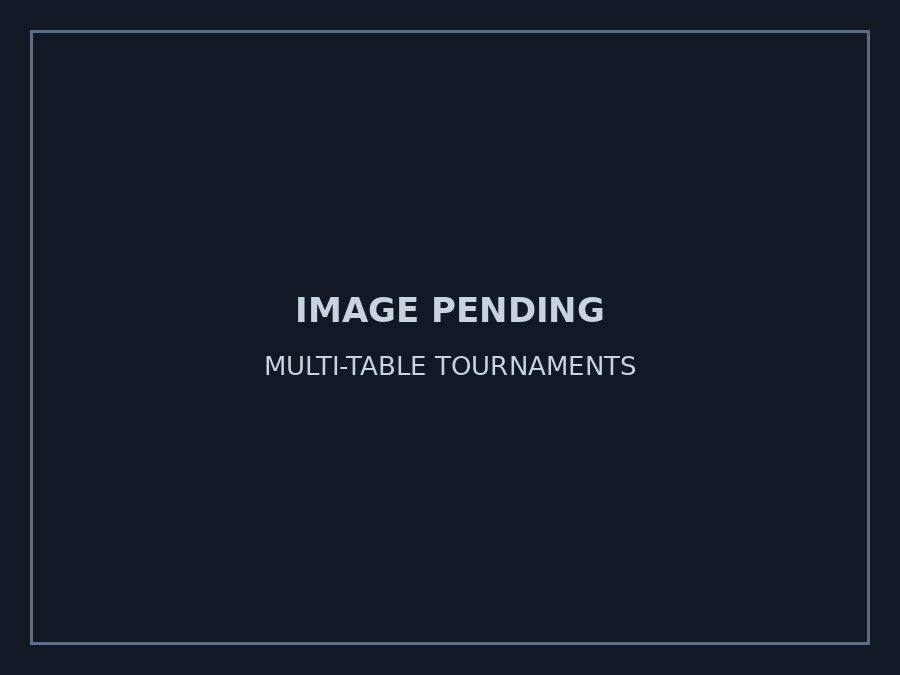
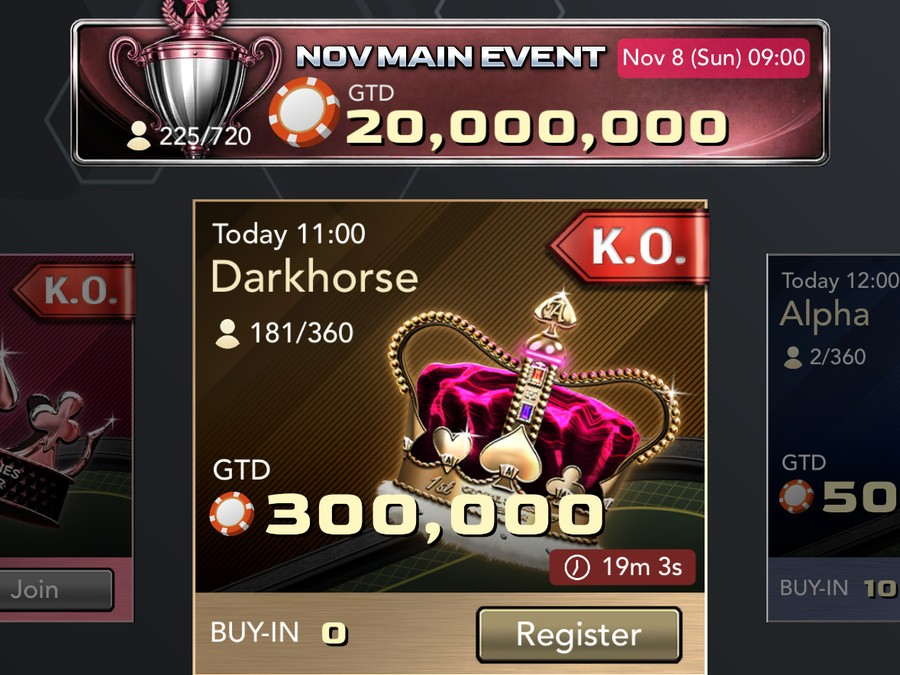
Home features: MTT and Friends card images
Claude-Session: https://claude.ai/code/session_0142zWWwptyNoYjdKVkt2bh6

diff --git a/public/js/i18n.js b/public/js/i18n.js
@@ -111,10 +111,10 @@ const I18N = {
     'index.features.title': '多重戰線，全面部署',
     'index.features.mtt.title': '多桌錦標賽',
     'index.features.mtt.desc': '加入大型錦標賽，在多張牌桌間層層淘汰對手，一路殺進決賽桌。盲注持續升高、獎池不斷擴大，最後只有一位特務能拿下全部。',
-    'index.features.mtt.imgAlt': '多桌錦標賽大廳畫面（圖片待補）',
+    'index.features.mtt.imgAlt': 'MTT 大廳畫面：保證獎池 20,000,000 的 11 月主賽事與 Darkhorse 淘汰賽',
     'index.features.friends.title': '與好友同桌',
     'index.features.friends.desc': '開設私人牌桌或俱樂部，用代碼邀請好友加入，自訂玩法規則與盲注。你的小隊，你的牌桌。',
-    'index.features.friends.imgAlt': '與好友同桌的私人牌桌畫面（圖片待補）',
+    'index.features.friends.imgAlt': '好友牌局畫面：四位好友圍坐私人牌桌打牌',
     'index.features.card3.title': '每日任務與排行榜',
     'index.features.card3.desc': '每日、每週任務與競賽活動持續開放，完成挑戰、累積積分，登上排行榜，爭取限定獎勵。',
     'index.features.card3.imgAlt': '排行榜畫面：前三名玩家的頭像卡與累積積分',
@@ -429,10 +429,10 @@ const I18N = {
     'index.features.title': 'Multiple Fronts. Full Deployment.',
     'index.features.mtt.title': 'Multi-table Tournaments',
     'index.features.mtt.desc': 'Enter large-field tournaments, outlast opponents across multiple tables, and fight your way to the final table. Blinds keep rising and the prize pool keeps growing — only one agent takes it all.',
-    'index.features.mtt.imgAlt': 'Multi-table tournament lobby (image pending)',
+    'index.features.mtt.imgAlt': 'MTT lobby showing the November Main Event with a 20,000,000 guarantee and the Darkhorse knockout tournament',
     'index.features.friends.title': 'Poker with your Friends',
     'index.features.friends.desc': 'Open a private table or club, invite your friends with a code, and set your own rules and blinds. Your crew, your table.',
-    'index.features.friends.imgAlt': 'Private table with friends (image pending)',
+    'index.features.friends.imgAlt': 'Friendly Game screen showing four friends playing poker around a private table',
     'index.features.card3.title': 'Daily Missions & Leaderboards',
     'index.features.card3.desc': 'Take on daily and weekly missions, join competitive events, earn points, climb the leaderboards, and compete for exclusive rewards.',
     'index.features.card3.imgAlt': 'Leaderboard screen showing the top three players\' rank cards and chip totals',
@@ -745,10 +745,10 @@ const I18N = {
     'index.features.title': '複数戦線、フル展開',
     'index.features.mtt.title': 'マルチテーブルトーナメント',
     'index.features.mtt.desc': '大規模トーナメントに参加し、複数のテーブルを勝ち抜いてファイナルテーブルを目指そう。上がり続けるブラインド、膨らむ賞金プール――すべてを手にするのはただ一人のエージェントだけ。',
-    'index.features.mtt.imgAlt': 'マルチテーブルトーナメントのロビー画面（画像準備中）',
+    'index.features.mtt.imgAlt': '保証賞金 20,000,000 の11月メインイベントと Darkhorse ノックアウト戦が並ぶ MTT ロビー画面',
     'index.features.friends.title': 'フレンドとポーカー',
     'index.features.friends.desc': 'プライベートテーブルやクラブを作成し、コードでフレンドを招待。ルールやブラインドも自由に設定できる。君のチーム、君のテーブル。',
-    'index.features.friends.imgAlt': 'フレンドと遊ぶプライベートテーブル画面（画像準備中）',
+    'index.features.friends.imgAlt': '4人のフレンドがプライベートテーブルでポーカーを楽しむフレンドリーゲーム画面',
     'index.features.card3.title': 'デイリーミッション＆ランキング',
     'index.features.card3.desc': 'デイリー・ウィークリーミッションや大会イベントを常時開催。チャレンジをクリアしてポイントを貯め、ランキングを駆け上がって限定報酬を獲得しよう。',
     'index.features.card3.imgAlt': '上位3名のランクカードと獲得チップ数を表示するランキング画面',

diff --git a/public/ja/index.html b/public/ja/index.html
@@ -120,14 +120,14 @@
       <div class="carousel-viewport">
         <div class="carousel-track">
           <div class="feature-card">
-            <img class="feature-card-img" src="../assets/images/features/card-mtt.jpg" alt="マルチテーブルトーナメントのロビー画面（画像準備中）" data-i18n-alt="index.features.mtt.imgAlt">
+            <img class="feature-card-img" src="../assets/images/features/card-mtt.jpg" alt="保証賞金 20,000,000 の11月メインイベントと Darkhorse ノックアウト戦が並ぶ MTT ロビー画面" data-i18n-alt="index.features.mtt.imgAlt">
             <div class="feature-card-body">
               <h3 data-i18n="index.features.mtt.title">マルチテーブルトーナメント</h3>
               <p data-i18n="index.features.mtt.desc">大規模トーナメントに参加し、複数のテーブルを勝ち抜いてファイナルテーブルを目指そう。上がり続けるブラインド、膨らむ賞金プール――すべてを手にするのはただ一人のエージェントだけ。</p>
             </div>
           </div>
           <div class="feature-card">
-            <img class="feature-card-img" src="../assets/images/features/card-friends.jpg" alt="フレンドと遊ぶプライベートテーブル画面（画像準備中）" data-i18n-alt="index.features.friends.imgAlt">
+            <img class="feature-card-img" src="../assets/images/features/card-friends.jpg" alt="4人のフレンドがプライベートテーブルでポーカーを楽しむフレンドリーゲーム画面" data-i18n-alt="index.features.friends.imgAlt">
             <div class="feature-card-body">
               <h3 data-i18n="index.features.friends.title">フレンドとポーカー</h3>
               <p data-i18n="index.features.friends.desc">プライベートテーブルやクラブを作成し、コードでフレンドを招待。ルールやブラインドも自由に設定できる。君のチーム、君のテーブル。</p>

diff --git a/public/index.html b/public/index.html
@@ -119,14 +119,14 @@
       <div class="carousel-viewport">
         <div class="carousel-track">
           <div class="feature-card">
-            <img class="feature-card-img" src="assets/images/features/card-mtt.jpg" alt="Multi-table tournament lobby (image pending)" data-i18n-alt="index.features.mtt.imgAlt">
+            <img class="feature-card-img" src="assets/images/features/card-mtt.jpg" alt="MTT lobby showing the November Main Event with a 20,000,000 guarantee and the Darkhorse knockout tournament" data-i18n-alt="index.features.mtt.imgAlt">
             <div class="feature-card-body">
               <h3 data-i18n="index.features.mtt.title">Multi-table Tournaments</h3>
               <p data-i18n="index.features.mtt.desc">Enter large-field tournaments, outlast opponents across multiple tables, and fight your way to the final table. Blinds keep rising and the prize pool keeps growing — only one agent takes it all.</p>
             </div>
           </div>
           <div class="feature-card">
-            <img class="feature-card-img" src="assets/images/features/card-friends.jpg" alt="Private table with friends (image pending)" data-i18n-alt="index.features.friends.imgAlt">
+            <img class="feature-card-img" src="assets/images/features/card-friends.jpg" alt="Friendly Game screen showing four friends playing poker around a private table" data-i18n-alt="index.features.friends.imgAlt">
             <div class="feature-card-body">
               <h3 data-i18n="index.features.friends.title">Poker with your Friends</h3>
               <p data-i18n="index.features.friends.desc">Open a private table or club, invite your friends with a code, and set your own rules and blinds. Your crew, your table.</p>

diff --git a/public/zh/index.html b/public/zh/index.html
@@ -120,14 +120,14 @@
       <div class="carousel-viewport">
         <div class="carousel-track">
           <div class="feature-card">
-            <img class="feature-card-img" src="../assets/images/features/card-mtt.jpg" alt="多桌錦標賽大廳畫面（圖片待補）" data-i18n-alt="index.features.mtt.imgAlt">
+            <img class="feature-card-img" src="../assets/images/features/card-mtt.jpg" alt="MTT 大廳畫面：保證獎池 20,000,000 的 11 月主賽事與 Darkhorse 淘汰賽" data-i18n-alt="index.features.mtt.imgAlt">
             <div class="feature-card-body">
               <h3 data-i18n="index.features.mtt.title">多桌錦標賽</h3>
               <p data-i18n="index.features.mtt.desc">加入大型錦標賽，在多張牌桌間層層淘汰對手，一路殺進決賽桌。盲注持續升高、獎池不斷擴大，最後只有一位特務能拿下全部。</p>
             </div>
           </div>
           <div class="feature-card">
-            <img class="feature-card-img" src="../assets/images/features/card-friends.jpg" alt="與好友同桌的私人牌桌畫面（圖片待補）" data-i18n-alt="index.features.friends.imgAlt">
+            <img class="feature-card-img" src="../assets/images/features/card-friends.jpg" alt="好友牌局畫面：四位好友圍坐私人牌桌打牌" data-i18n-alt="index.features.friends.imgAlt">
             <div class="feature-card-body">
               <h3 data-i18n="index.features.friends.title">與好友同桌</h3>
               <p data-i18n="index.features.friends.desc">開設私人牌桌或俱樂部，用代碼邀請好友加入，自訂玩法規則與盲注。你的小隊，你的牌桌。</p>
